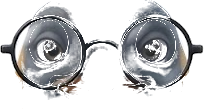
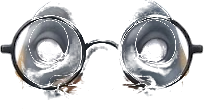
feat: Kálmán's eyes follow the pointer, in both moods
The pupils are cut as their own layers from Raymond's two edits without
pupils; the head and the glasses get empty eyes from the same edits,
mixed in only where the pupils were, so nothing else changes colour.
Two thresholds keep the soft edge of a pupil off the head and the eye's
outline out of the moving pupils. The goofy pupils show only in the
goofy mood, the professional ones are an accessory; both glide towards
the pointer during head-follow, ahead of the head.

diff --git a/scripts/cut-kalman-layers.ts b/scripts/cut-kalman-layers.ts
@@ -17,6 +17,7 @@ import { join } from 'node:path';
 import sharp from 'sharp';
 import {
   assertSameSize,
+  blendImages,
   bodyCentreX,
   darknessMap,
   cutPart,
@@ -28,6 +29,7 @@ import {
   groundRow,
   matchTone,
   pivotIn,
+  restrictAlpha,
   placeBox,
   plumageTone,
   polygonCoverage,
@@ -81,6 +83,20 @@ const CUT: FrontCutSettings = {
   tail: { fromRow: 888, toRow: 952, minX: 294, maxX: 394 },
   glasses: [232, 68, 452, 178],
   tie: [222, 200, 466, 645],
+};
+
+/**
+ * The front views without pupils (kalman-animation-feel design §11): edits of the two front
+ * views in which only the pupils are gone. Two thresholds for two jobs: emptying the eyes takes
+ * everything that differs a little (so no ring of a pupil's soft edge stays behind on the
+ * head), while the moving pupils only take what differs a lot (so no piece of the eye's
+ * outline, which Gemini redraws slightly, moves along with them).
+ */
+const NO_PUPILS = {
+  goofy: `${DESIGN}/front-goofy-no-pupils.png`,
+  professional: `${DESIGN}/front-professional-no-pupils.png`,
+  empty: { threshold: 20, range: 20 },
+  pupils: { threshold: 80, range: 40 },
 };
 
 /** Image pixels → artboard: Kálmán (918 px tall) becomes ~1222 units, centred on x 800, top at 180. */
@@ -156,6 +172,29 @@ const LAYERS = [
     parent: 'head',
     order: 60,
     rotate: [-10, 10],
+    accessory: true,
+  },
+  // The pupils (kalman-animation-feel design §11): both eyes in one layer, hanging from the head,
+  // and only `shift` artboard units each way, so they stay inside the eyes. The goofy ones only
+  // show in the goofy mood; the professional ones are above the glasses, with the calm eyes.
+  {
+    name: 'pupils',
+    file: 'pupils',
+    pivot: [344, 115],
+    parent: 'head',
+    order: 35,
+    rotate: [-5, 5],
+    shift: [12, 8],
+    mood: 'goofy',
+  },
+  {
+    name: 'pupilsProfessional',
+    file: 'pupils-professional',
+    pivot: [344, 115],
+    parent: 'head',
+    order: 65,
+    rotate: [-5, 5],
+    shift: [4, 2],
     accessory: true,
   },
 ] as const;
@@ -339,6 +378,47 @@ assertSameSize(goofy, professional, 'The goofy and professional front views');
 const background = findBackground(goofy);
 const bodyAlpha = figureAlpha(goofy, background);
 const extrasAlpha = differenceAlpha(goofy, professional);
+
+// The eyes without pupils: the original views everywhere, and the edits only where the pupils
+// were, so everything else keeps exactly its colours. The pupils are that same difference.
+const goofyNoPupils = await readRgb(NO_PUPILS.goofy);
+const professionalNoPupils = await readRgb(NO_PUPILS.professional);
+assertSameSize(goofy, goofyNoPupils, 'The goofy front view and its edit without pupils');
+assertSameSize(
+  professional,
+  professionalNoPupils,
+  'The professional front view and its edit without pupils',
+);
+const eyeDifference = (
+  view: typeof goofy,
+  edit: typeof goofy,
+  { threshold, range }: { threshold: number; range: number },
+) => restrictAlpha(differenceAlpha(edit, view, threshold, range), view.width, CUT.glasses);
+const goofyPupils = eyeDifference(goofy, goofyNoPupils, NO_PUPILS.pupils);
+const professionalPupils = eyeDifference(professional, professionalNoPupils, NO_PUPILS.pupils);
+const goofyEmptyEyes = blendImages(
+  goofy,
+  goofyNoPupils,
+  eyeDifference(goofy, goofyNoPupils, NO_PUPILS.empty),
+);
+const professionalEmptyEyes = blendImages(
+  professional,
+  professionalNoPupils,
+  eyeDifference(professional, professionalNoPupils, NO_PUPILS.empty),
+);
+// The glasses (with the calm eyes) are where the professional view differs from the goofy one,
+// both with empty eyes; the tie stays as before.
+const glassesAlpha = differenceAlpha(goofyEmptyEyes, professionalEmptyEyes);
+
+/** Which image and which alpha each front layer is cut from. */
+function sourceOf(name: string): { image: typeof goofy; alpha: Float32Array } {
+  if (name === 'head') return { image: goofyEmptyEyes, alpha: bodyAlpha };
+  if (name === 'glasses') return { image: professionalEmptyEyes, alpha: glassesAlpha };
+  if (name === 'tie') return { image: professional, alpha: extrasAlpha };
+  if (name === 'pupils') return { image: goofy, alpha: goofyPupils };
+  if (name === 'pupilsProfessional') return { image: professional, alpha: professionalPupils };
+  return { image: goofy, alpha: bodyAlpha };
+}
 const rows = [CUT.flipper.gapFromRow, CUT.flipper.toRow] as const;
 const regions = frontRegions(
   CUT,
@@ -349,12 +429,10 @@ const regions = frontRegions(
 mkdirSync(OUT, { recursive: true });
 const rigLayers = [];
 for (const layer of LAYERS) {
-  const isExtra = layer.name === 'tie' || layer.name === 'glasses';
-  const region = regions[layer.name];
-  const part =
-    region === undefined
-      ? undefined
-      : cutPart(isExtra ? professional : goofy, isExtra ? extrasAlpha : bodyAlpha, region);
+  // The pupils need no region of their own: their alpha is already only the pupils.
+  const region = layer.name.startsWith('pupils') ? () => 1 : regions[layer.name];
+  const source = sourceOf(layer.name);
+  const part = region === undefined ? undefined : cutPart(source.image, source.alpha, region);
   if (part === undefined) throw new Error(`The ${layer.name} region is empty: check the settings.`);
   await writePng(join(OUT, `${layer.file}.png`), part.rgba, part.box.width, part.box.height);
   rigLayers.push({
@@ -366,7 +444,9 @@ for (const layer of LAYERS) {
     order: layer.order,
     rotate: layer.rotate,
     ...('stretch' in layer ? { stretch: layer.stretch } : {}),
+    ...('shift' in layer ? { shift: layer.shift } : {}),
     ...('accessory' in layer ? { accessory: true } : {}),
+    ...('mood' in layer ? { mood: layer.mood } : {}),
   });
   console.log(`${layer.name.padEnd(13)} ${part.box.width}×${part.box.height} px`);
 }

diff --git a/tests/e2e/animation.spec.ts b/tests/e2e/animation.spec.ts
@@ -127,6 +127,43 @@ test('head-follow turns the head towards the pointer', async ({ page }) => {
   await expect(frontHead(page)).not.toHaveAttribute('transform', restHead ?? '', { timeout: 2000 });
 });
 
+/** The x of a pupil layer's position, read from its SVG matrix (the `e` of `matrix(a b c d e f)`). */
+async function pupilX(page: Page, layer: string): Promise<number> {
+  const transform = await page
+    .locator(`[data-layers][data-figure="front"] [data-layer="${layer}"]`)
+    .getAttribute('transform');
+  return Number(transform?.match(/matrix\(([^)]+)\)/)?.[1]?.split(' ')[4]);
+}
+
+/** Starts head-follow and moves the pointer to the right edge of the stage. */
+async function lookRight(page: Page): Promise<void> {
+  await page.getByRole('button', { name: 'Play head-follow' }).click();
+  await figure(page).scrollIntoViewIfNeeded();
+  const box = await figure(page).boundingBox();
+  if (box === null) throw new Error('The figure has no box.');
+  await page.mouse.move(box.x + box.width - 5, box.y + box.height * 0.15, { steps: 5 });
+}
+
+test('head-follow moves the pupils towards the pointer as well', async ({ page }) => {
+  const rest = await pupilX(page, 'pupils');
+  await lookRight(page);
+  // The head turns too, so the pupils' position changes for both reasons; to the right is more x.
+  await expect.poll(() => pupilX(page, 'pupils')).toBeGreaterThan(rest);
+});
+
+test('in the professional mood the pupils behind the glasses follow the pointer', async ({
+  page,
+}) => {
+  await page.getByRole('switch', { name: /Professional/ }).check();
+  const rest = await pupilX(page, 'pupilsProfessional');
+  await lookRight(page);
+  await expect.poll(() => pupilX(page, 'pupilsProfessional')).toBeGreaterThan(rest);
+  // The goofy pupils stay hidden in this mood.
+  await expect(
+    page.locator('[data-layers][data-figure="front"] [data-layer="pupils"]'),
+  ).toHaveAttribute('visibility', 'hidden');
+});
+
 test('the front/side switch shows the side figure with its own poses and sliders', async ({
   page,
 }) => {

diff --git a/scripts/lib/kalman-cut.ts b/scripts/lib/kalman-cut.ts
@@ -121,6 +121,40 @@ export function darknessMap(image: RawImage, dark = 110, light = 160): AlphaMap 
   return map;
 }
 
+/**
+ * `alpha` with everything outside `bounds` set to 0, like masking a NumPy array. Used to keep
+ * a difference to the eyes: the edits without pupils also carry a little noise elsewhere.
+ */
+export function restrictAlpha(alpha: AlphaMap, width: number, bounds: PixelBounds): AlphaMap {
+  const kept = new Float32Array(alpha.length);
+  for (let i = 0; i < alpha.length; i++) {
+    const x = i % width;
+    const y = (i - x) / width;
+    const inside = x >= bounds[0] && y >= bounds[1] && x <= bounds[2] && y < bounds[3];
+    kept[i] = inside ? (alpha[i] ?? 0) : 0;
+  }
+  return kept;
+}
+
+/**
+ * `base` with `other` mixed in where `alpha` says so (0 = all `base`, 1 = all `other`). For the
+ * head with empty eyes: the original everywhere, and the edit only where its pupils were, so
+ * the head keeps exactly the original's colours and no seam shows at the neck.
+ */
+export function blendImages(base: RawImage, other: RawImage, alpha: AlphaMap): RawImage {
+  assertSameSize(base, other, 'blendImages');
+  const data = new Uint8Array(base.width * base.height * 3);
+  for (let i = 0; i < base.width * base.height; i++) {
+    const a = alpha[i] ?? 0;
+    const from = rgbAt(base, i);
+    const to = rgbAt(other, i);
+    for (let c = 0; c < 3; c++) {
+      data[i * 3 + c] = Math.round((from[c] ?? 0) * (1 - a) + (to[c] ?? 0) * a);
+    }
+  }
+  return { width: base.width, height: base.height, channels: 3, data };
+}
+
 /** Stops when two images that must line up pixel for pixel don't have the same size. */
 export function assertSameSize(a: RawImage, b: RawImage, what: string): void {
   if (a.width !== b.width || a.height !== b.height) {

diff --git a/tests/unit/kalman-cut.test.ts b/tests/unit/kalman-cut.test.ts
@@ -6,6 +6,7 @@
 import { describe, expect, it } from 'vitest';
 import {
   assertSameSize,
+  blendImages,
   bodyCentreX,
   cutPart,
   darknessMap,
@@ -21,6 +22,7 @@ import {
   polygonCoverage,
   plumageTone,
   ramp,
+  restrictAlpha,
   sideRegions,
   type FrontCutSettings,
   type SideCutSettings,
@@ -340,5 +342,30 @@ describe('sideRegions', () => {
 
   it('fades the head into the neck', () => {
     expect([take('head', 5, 3), take('head', 5, 6), take('head', 5, 9)]).toEqual([1, 0.5, 0]);
+  });
+});
+
+describe('restrictAlpha and blendImages (the eyes without pupils)', () => {
+  it('keeps the alpha inside the bounds only', () => {
+    // A 4 × 2 alpha map, all 1; the bounds keep columns 1–2 of row 0.
+    const kept = restrictAlpha(new Float32Array(8).fill(1), 4, [1, 0, 2, 1]);
+    expect([...kept]).toEqual([0, 1, 1, 0, 0, 0, 0, 0]);
+  });
+
+  it('mixes the second image in where the alpha says so, and leaves the rest as it was', () => {
+    const base: RawImage = {
+      width: 2,
+      height: 1,
+      channels: 3,
+      data: new Uint8Array([0, 0, 0, 100, 100, 100]),
+    };
+    const other: RawImage = {
+      width: 2,
+      height: 1,
+      channels: 3,
+      data: new Uint8Array([200, 200, 200, 255, 255, 255]),
+    };
+    const mixed = blendImages(base, other, new Float32Array([0.5, 0]));
+    expect([...mixed.data]).toEqual([100, 100, 100, 100, 100, 100]);
   });
 });

diff --git a/tests/unit/kalman-rig-data.test.ts b/tests/unit/kalman-rig-data.test.ts
@@ -34,6 +34,8 @@ const PARTS: Record<Figure, string[]> = {
     'tail',
     'tie',
     'glasses',
+    'pupils',
+    'pupilsProfessional',
   ],
   // The far flipper is hidden behind the body in a side view, so it is part of the body.
   side: ['body', 'head', 'flipper', 'footFront', 'footBack', 'tail', 'tie', 'glasses'],
@@ -68,9 +70,16 @@ describe.each(FIGURES)('the %s rig in the repo', (figure) => {
     ]);
   });
 
-  it('marks exactly the tie and the glasses as accessories', () => {
+  it('marks exactly the tie, the glasses and (front) the professional pupils as accessories', () => {
     const accessories = repoRig(figure).layers.filter((layer) => layer.accessory === true);
-    expect(accessories.map((layer) => layer.name).sort()).toEqual(['glasses', 'tie']);
+    const expected =
+      figure === 'front' ? ['glasses', 'pupilsProfessional', 'tie'] : ['glasses', 'tie'];
+    expect(accessories.map((layer) => layer.name).sort()).toEqual(expected);
+  });
+
+  it('shows the goofy pupils only in the goofy mood (front)', () => {
+    const goofyOnly = repoRig(figure).layers.filter((layer) => layer.mood === 'goofy');
+    expect(goofyOnly.map((layer) => layer.name)).toEqual(figure === 'front' ? ['pupils'] : []);
   });
 
   it('shares the artboard with the other figure, so switching doesn’t make him jump', () => {

diff --git a/src/i18n/preview.ts b/src/i18n/preview.ts
@@ -59,6 +59,8 @@ export const PREVIEW_EN = {
     tail: 'Tail',
     tie: 'Tie',
     glasses: 'Glasses',
+    pupils: 'Pupils',
+    pupilsProfessional: 'Pupils (professional)',
   },
   /**
    * The side figure's sliders get their own labels ("Side: head"), so no two sliders on the page

diff --git a/openspec/changes/kalman-animation-feel/tasks.md b/openspec/changes/kalman-animation-feel/tasks.md
@@ -42,10 +42,10 @@
 ## 6. Eyes that follow the pointer
 
 - [x] 6.1 Add prompts 9 and 10 (the front views without pupils, goofy and professional) to `docs/kalman-layers.md`; verify the prompts name the files `front-goofy-no-pupils.png` and `front-professional-no-pupils.png`
-- [ ] 6.2 Check Raymond's two images without pupils (same size as `front-goofy.png`, only the pupils changed) and save them in `docs/images/kalman-design/`; verify with the alignment check (best shift 0, 0) and a difference map that shows only the pupils
+- [x] 6.2 Check Raymond's two images without pupils (same size as `front-goofy.png`, only the pupils changed) and save them in `docs/images/kalman-design/`; verify with the alignment check (best shift 0, 0) and a difference map that shows only the pupils
 - [x] 6.3 Add `shift` and `mood` to `RigLayer` in `src/lib/kalman-rig.ts`: validation of a shift range and of a pose's offset against it, `clampToRig()` clamping such offsets, and `resolvePose()` showing a layer with `mood` only in that mood (design §11); verify with unit tests, including "Pupil at the edge", "Professional mood" and "Goofy mood"
-- [ ] 6.4 Cut the head and the glasses from the images without pupils and the two pupil layers from the differences in `scripts/cut-kalman-layers.ts`, with their shift measured on the images; verify `npm run cut:kalman` and `check:kalman` pass, the data test for the eleven front layers, and screenshots of the pupils at the ends of their shift in both moods with no copy left behind
-- [ ] 6.5 Add `eyeShift()` with unit tests ("Pointer far to the right", "Pointer straight above the head", "Pointer below and to the left") and move the pupils in the player's head-follow, faster than the head; verify with e2e tests for "Pointer to the right" and "Eyes in the professional mood" in all four browsers
+- [x] 6.4 Cut the head and the glasses from the images without pupils and the two pupil layers from the differences in `scripts/cut-kalman-layers.ts`, with their shift measured on the images; verify `npm run cut:kalman` and `check:kalman` pass, the data test for the eleven front layers, and screenshots of the pupils at the ends of their shift in both moods with no copy left behind
+- [x] 6.5 Add `eyeShift()` with unit tests ("Pointer far to the right", "Pointer straight above the head", "Pointer below and to the left") and move the pupils in the player's head-follow, faster than the head; verify with e2e tests for "Pointer to the right" and "Eyes in the professional mood" in all four browsers
 - [ ] 6.6 Tune the eyes with Raymond in the preview (how far, how fast) and update `docs/architecture.md`, `docs/glossary.md` and `docs/kalman-layers.md` for the pupils; verify Raymond approves and the docs match the code
 
 ## 7. Wrap-up
